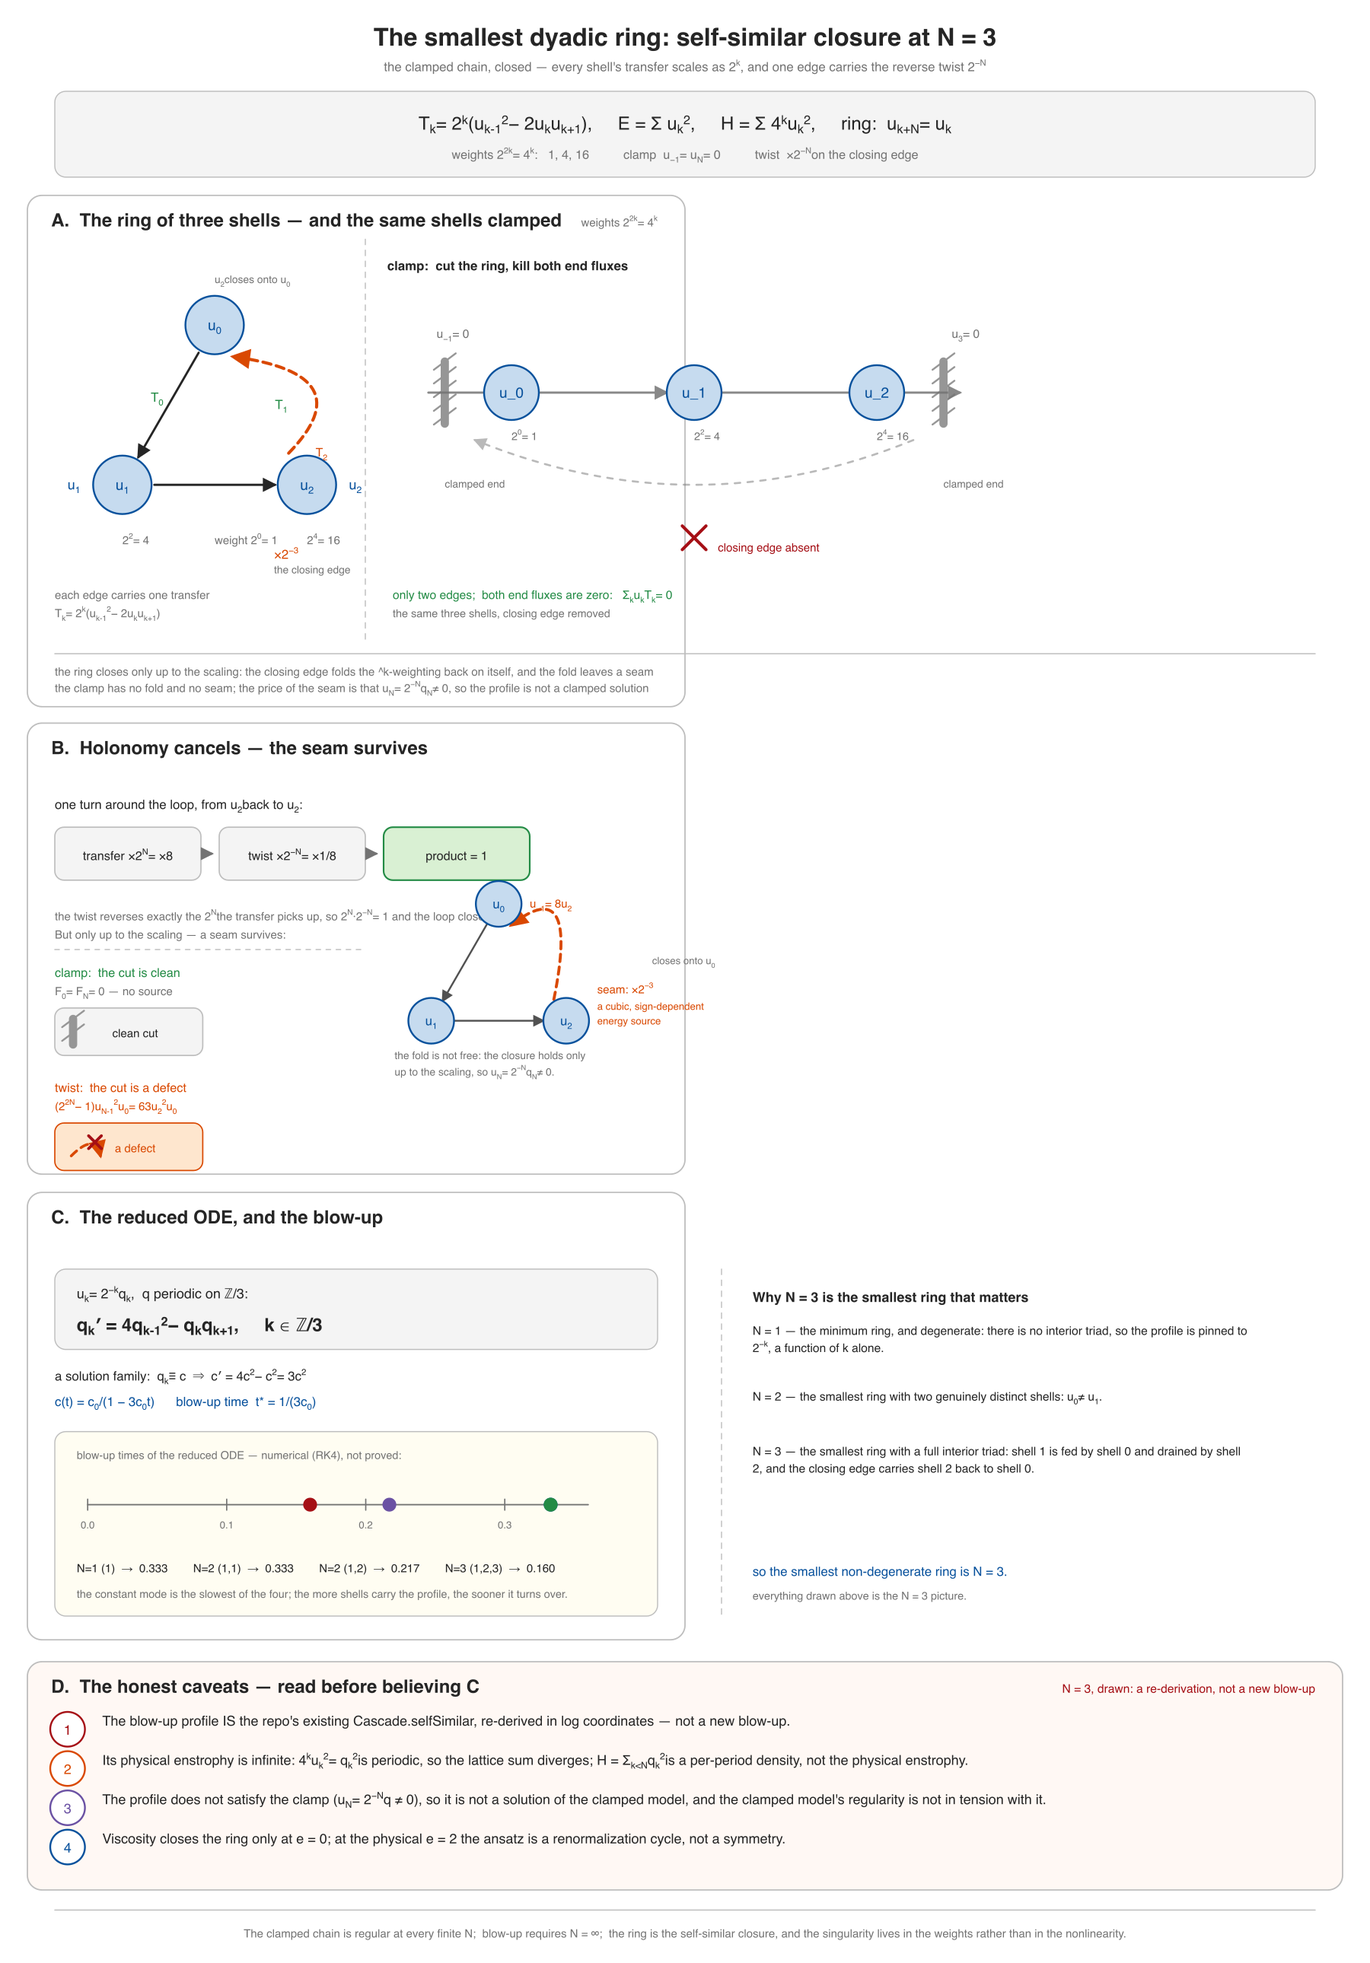
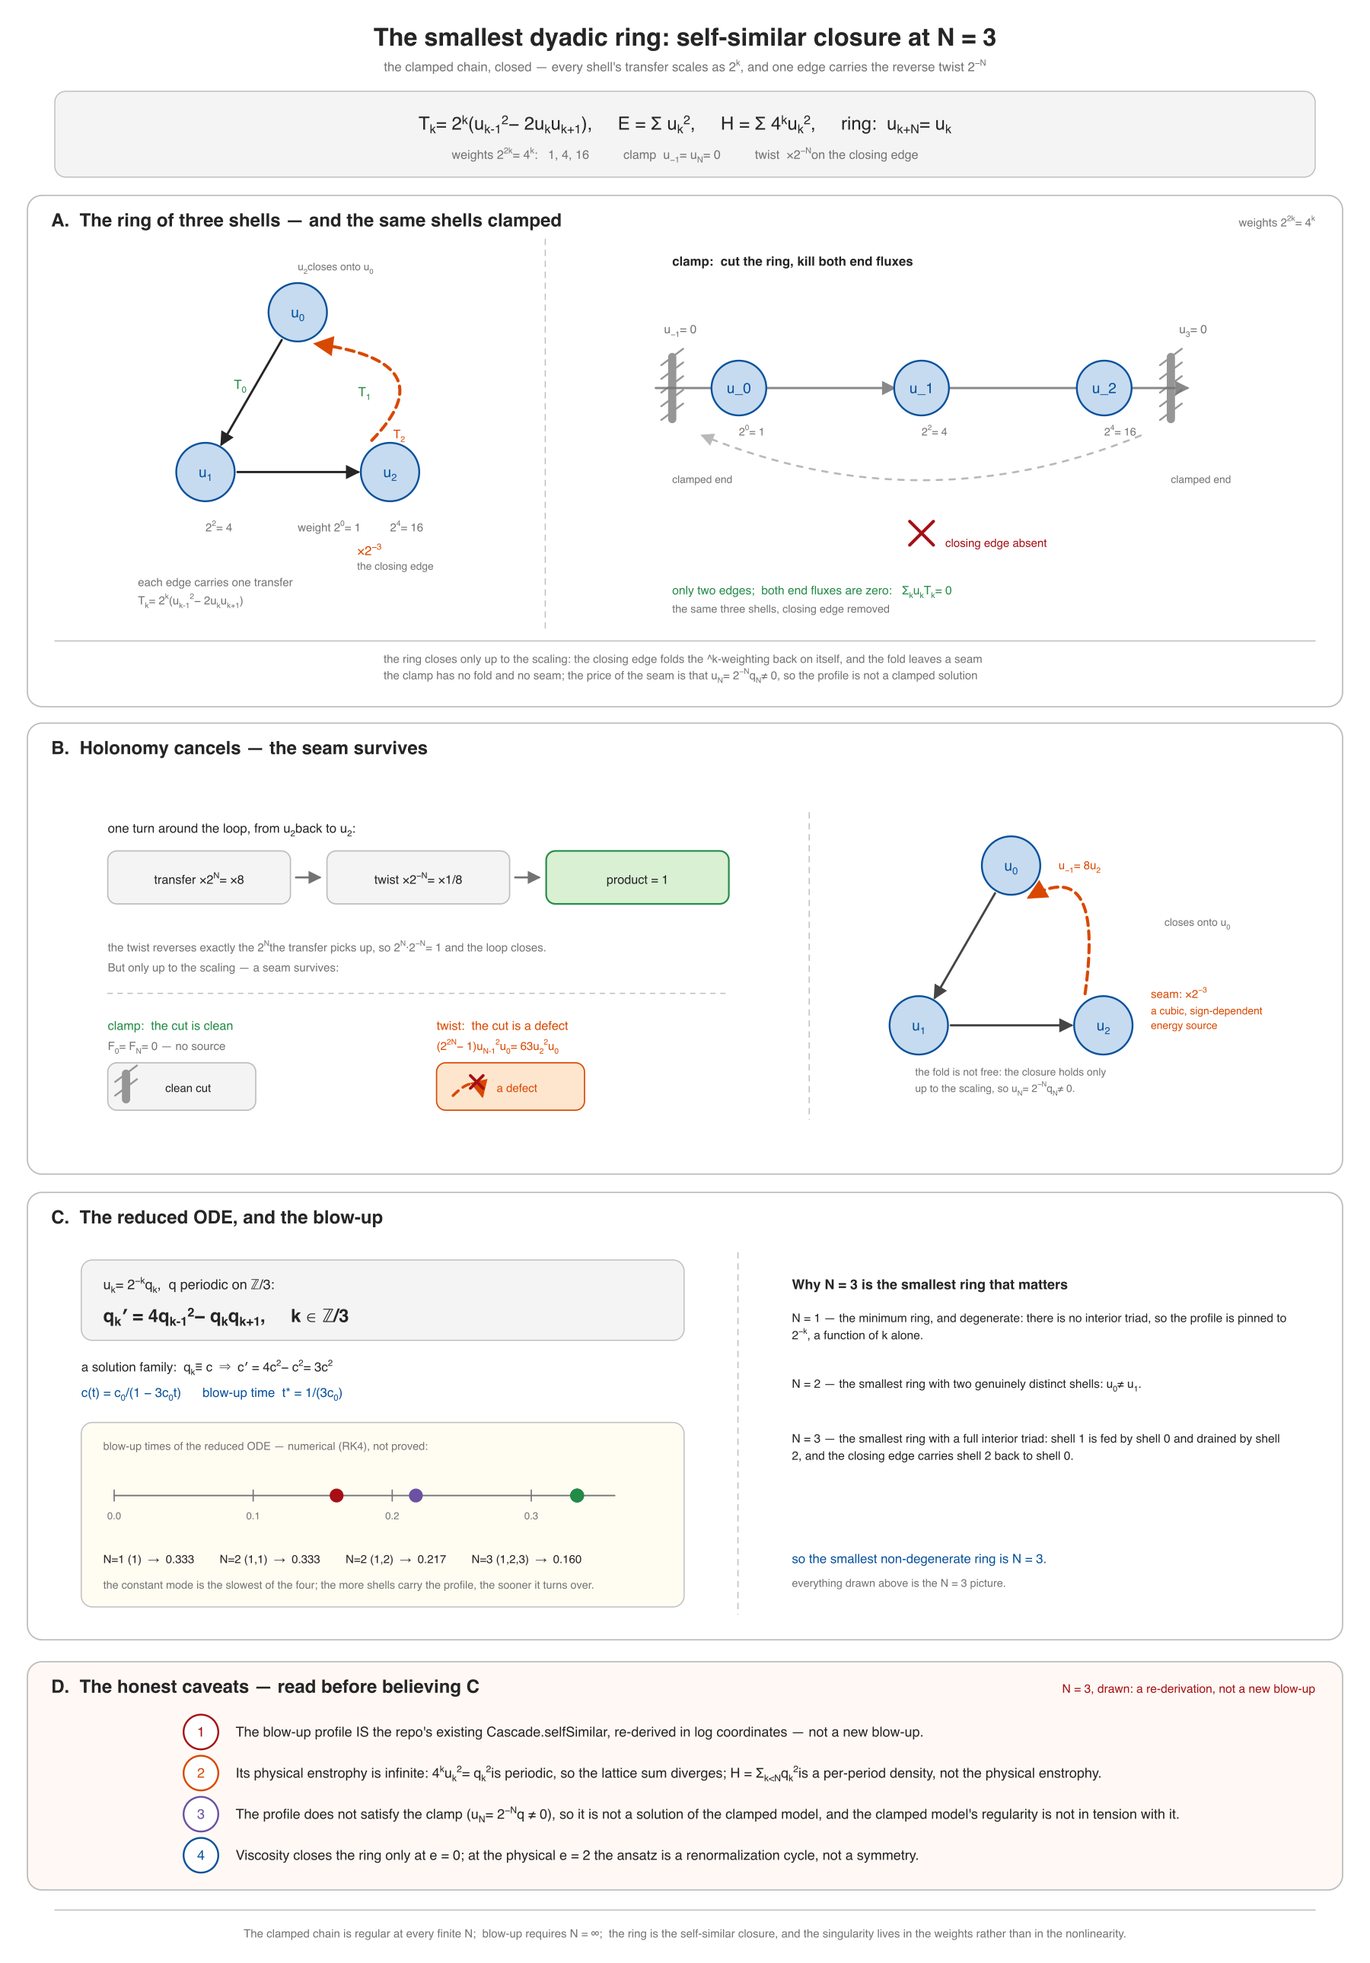
Sync the ring figure's layout fixes from the parent
The parent's ring figure went through five layout passes after this repository was last
synced, so what was carried here was the original: content running outside the panel frames, a
card border cutting through the small ring's labels, a duplicated u_1/u_2 label pair, panel B
missing the column divider that panels A and C had, its ring drawn at radius 25/height 128
against A's 32/175, and nothing centred in its card.

This brings the three ring files across from parent commit 25b67ce, which squashes those five
passes into one:

* the panel frames widened 720 -> 1440, so no content sits outside a card;
* two text-text overlaps removed, and the duplicate external u_1/u_2 labels deleted (the node
  circles already carry them);
* the "a defect" box opened from a 4px gap to its card bottom up to 82px;
* panel B given the column divider A and C already had, and its ring redrawn at A's geometry;
* the three dividers placed in their own mid-gaps (597 / 886 / 808);
* the caveat bullets centred on their text lines (they had sat ~9px low);
* each figure centred in its region on both axes by SVG group translates.

The figure's content is unchanged: it still carries the four caveats printed inside it -- the
profile is the existing Cascade.selfSimilar re-derived in log coordinates rather than a new
blow-up, its physical enstrophy is infinite, it violates the clamp and so contradicts nothing,
and viscosity closes the ring only at e = 0 -- and the blow-up times are still labelled
[…]

diff --git a/Cascade/plot_dyadic_ring.py b/Cascade/plot_dyadic_ring.py
@@ -290,11 +290,19 @@ o.append(rich(750, 174, "weights 2^{2k} = 4^{k}:   1, 4, 16          "
 
 # =========================== PANEL A: ring vs clamp ========================
 AY, AH = 214, 560
-o.append(panel(PAD, AY, 720, AH,
+o.append(panel(PAD, AY, 1440, AH,
                "A.  The ring of three shells — and the same shells clamped"))
-o.append(rich(720, AY + 34, "weights 2^{2k} = 4^{k}", size=12.5, anchor='end', fill=GREY))
+o.append(rich(1440, AY + 34, "weights 2^{2k} = 4^{k}", size=12.5, anchor='end', fill=GREY))
 
 # --- the ring (left half of panel A) ----------------------------------------
+# Each figure is centred on both axes: in the card, or in its half of a
+# two-column card.  The ring block measures 324 wide and the clamped chain 630,
+# so with the rule centred in the gap it sits at 750 + (324-630)/2 = 597 and the
+# two figures centre on 313 and 1044.  Card A's body runs from the foot of the
+# title (253) to the rule at 702, centre ~477.
+RA_DX, RA_DY = 91, -14
+CA_DX, CA_DY = 74, -5
+o.append(f'<g transform="translate({RA_DX},{RA_DY})">')
 RX, RY, RH = 235.0, 356.0, 175.0            # apex x, apex y, height
 RGRP = 32
 P0 = (RX, RY)                                # u_0  (apex)
@@ -309,45 +317,53 @@ o.append(arrow(rb1[0], rb1[1], rb2[0], rb2[1], color='ink', sw=2.4))
 rc1, rc2 = step(P2, P0, 32 + 8)
 o.append(carrow(rc1[0], rc1[1], 400.0, 410.0, rc2[0], rc2[1],
                 color='orange', sw=3.4, dash="9 6"))
-o.append(text(300, 612, "×2^{−3}", size=14, fill=ORANGE))
-o.append(text(300, 628, "the closing edge", size=11.5, fill=GREY))
+o.append(text(300, 622, "×2^{−3}", size=14, fill=ORANGE))
+o.append(text(300, 638, "the closing edge", size=11.5, fill=GREY))
 
 o.append(node(P0[0], P0[1], RGRP, "u_{0}"))
 o.append(node(P1[0], P1[1], RGRP, "u_{1}"))
 o.append(node(P2[0], P2[1], RGRP, "u_{2}"))
 o.append(text(P0[0], P0[1] - RGRP - 14, "u_{2} closes onto u_{0}", size=11.5, fill=GREY))
-o.append(text(P1[0] - RGRP - 14, P1[1] + 5, "u_{1}", size=15, anchor='end', fill=BLUE))
-o.append(text(P2[0] + RGRP + 14, P2[1] + 5, "u_{2}", size=15, anchor='start', fill=BLUE))
 # the edge transfers, and the weight band under the ring
 o.append(rich(172, 440, "T_{0}", size=14, fill=GREEN))
 o.append(rich(308, 448, "T_{1}", size=14, fill=GREEN))
-o.append(rich(352, 500, "T_{2}", size=13, fill=ORANGE))
+o.append(rich(346, 494, "T_{2}", size=13, fill=ORANGE))
 o.append(text(P0[0], 596, "weight 2^{0} = 1", size=12.5, fill=GREY))
 o.append(text(P1[0], 596, "2^{2} = 4", size=12.5, fill=GREY))
 o.append(text(P2[0], 596, "2^{4} = 16", size=12.5, fill=GREY))
 # legend under the ring
 o.append(text(60, 656, "each edge carries one transfer", size=12.5, fill=GREY))
 o.append(text(60, 676, "T_{k} = 2^{k}(u_{k-1}^{2} − 2u_{k}u_{k+1})", size=12.5, fill=GREY))
+o.append('</g>')
 
 # --- the clamped chain (right half of panel A) ------------------------------
-o.append(line(400, 262, 400, 704, stroke=MGREY, sw=1.2, dash="6 6"))
-o.append(text(424, 296, "clamp:  cut the ring, kill both end fluxes", size=14, weight='bold'))
-o.append(line(60, 716, 1440, 716, stroke=MGREY, sw=1.2))
-o.append(text(60, 740, "the ring closes only up to the scaling: the closing edge folds the "
+# column rule, centred in the gap between the ring (right edge ~384) and the
+# clamped chain (left edge ~644)
+o.append(line(597, 262, 597, 692, stroke=MGREY, sw=1.2, dash="6 6"))
+o.append(f'<g transform="translate({CA_DX},{CA_DY})">')
+o.append(text(662, 296, "clamp:  cut the ring, kill both end fluxes", size=14, weight='bold'))
+o.append('</g>')
+o.append(line(60, 702, 1440, 702, stroke=MGREY, sw=1.2))
+# the card-level note under the rule is content too: centred in the card
+AN_DX = 360
+o.append(f'<g transform="translate({AN_DX},0)">')
+o.append(text(60, 726, "the ring closes only up to the scaling: the closing edge folds the "
                        "^k-weighting back on itself, and the fold leaves a seam",
               size=12.5, fill=GREY))
-o.append(text(60, 758, "the clamp has no fold and no seam; the price of the seam is that "
+o.append(text(60, 744, "the clamp has no fold and no seam; the price of the seam is that "
                        "u_{N} = 2^{−N}q_{N} ≠ 0, so the profile is not a clamped solution",
               size=12.5, fill=GREY))
+o.append('</g>')
 
+o.append(f'<g transform="translate({CA_DX},{CA_DY})">')
 CCY = 430
-NX = [560, 760, 960]
+NX = [735, 935, 1135]
 o.append(vclamp(NX[0] - 73, CCY - 34, CCY + 34))
 o.append(vclamp(NX[2] + 73, CCY - 34, CCY + 34))
 o.append(arrow(NX[0] - 91, CCY, NX[1] - 30, CCY, color='grey', sw=2.4, opacity=0.85))
 o.append(arrow(NX[1] + 30, CCY, NX[2] + 91, CCY, color='grey', sw=2.4, opacity=0.85))
-o.append(text(478, 370, "u_{−1} = 0", size=13, fill=GREY))
-o.append(text(1042, 370, "u_{3} = 0", size=13, fill=GREY))
+o.append(text(653, 370, "u_{−1} = 0", size=13, fill=GREY))
+o.append(text(1217, 370, "u_{3} = 0", size=13, fill=GREY))
 # the absent closing edge, struck out
 o.append(carrow(NX[2] + 40, CCY + 52, (NX[2] + NX[0]) / 2, CCY + 150,
                 NX[0] - 40, CCY + 52, color='grey', sw=2.2, dash="6 8", opacity=0.5))
@@ -361,77 +377,99 @@ for i, mx in enumerate(NX):
                   size=12, fill=GREY))
 o.append(text(NX[0] - 73, CCY + 104, "clamped end", size=11.5, fill=GREY))
 o.append(text(NX[2] + 73, CCY + 104, "clamped end", size=11.5, fill=GREY))
-o.append(text(430, 656, "only two edges;  both end fluxes are zero:   "
+o.append(text(662, 656, "only two edges;  both end fluxes are zero:   "
                         "Σ_{k} u_{k}T_{k} = 0", size=13, fill=GREEN))
-o.append(text(430, 676, "the same three shells, closing edge removed", size=12, fill=GREY))
+o.append(text(662, 676, "the same three shells, closing edge removed", size=12, fill=GREY))
+o.append('</g>')
 
 # ==================== PANEL B: holonomy and the seam ========================
 BY, BH = 792, 494
-o.append(panel(PAD, BY, 720, BH,
+o.append(panel(PAD, BY, 1440, BH,
                "B.  Holonomy cancels — the seam survives"))
 
 # --- left column: the turn, then the clamp ----------------------------------
-o.append(text(60, 886, "one turn around the loop, from u_{2} back to u_{2}:", size=14))
-BX = [60, 240, 420]
-BW = 160
-o.append(rect(BX[0], 906, BW, 58, fill=LGREY, stroke=MGREY, sw=1.4, rx=10))
-o.append(rich(BX[0] + BW / 2, 942, "transfer ×2^{N} = ×8", size=13.5))
-o.append(arrow(BX[0] + BW + 6, 935, BX[1] - 8, 935, color='grey', sw=2.2))
-o.append(rect(BX[1], 906, BW, 58, fill=LGREY, stroke=MGREY, sw=1.4, rx=10))
-o.append(rich(BX[1] + BW / 2, 942, "twist ×2^{−N} = ×1/8", size=13.5))
-o.append(arrow(BX[1] + BW + 6, 935, BX[2] - 8, 935, color='grey', sw=2.2))
-o.append(rect(BX[2], 906, BW, 58, fill=LGREEN, stroke=GREEN, sw=1.8, rx=10))
-o.append(rich(BX[2] + BW / 2, 942, "product = 1", size=13.5))
-o.append(text(60, 1008, "the twist reverses exactly the 2^{N} the transfer picks up, so "
+# Card B's body runs from the foot of the title (831) to the card bottom (1286),
+# centre ~1058.  The flow column measures 680 wide and the ring 409, so the rule
+# sits at 750 + (680-409)/2 = 886 and the two columns centre on 458 and 1178.
+BL_DX, BL_DY = 58, 12
+BR_DX, BR_DY = 17, -32
+o.append(f'<g transform="translate({BL_DX},{BL_DY})">')
+o.append(text(60, 900, "one turn around the loop, from u_{2} back to u_{2}:", size=14))
+BX = [60, 300, 540]
+BW = 200
+o.append(rect(BX[0], 920, BW, 58, fill=LGREY, stroke=MGREY, sw=1.4, rx=10))
+o.append(rich(BX[0] + BW / 2, 956, "transfer ×2^{N} = ×8", size=13.5))
+o.append(arrow(BX[0] + BW + 6, 949, BX[1] - 8, 949, color='grey', sw=2.2))
+o.append(rect(BX[1], 920, BW, 58, fill=LGREY, stroke=MGREY, sw=1.4, rx=10))
+o.append(rich(BX[1] + BW / 2, 956, "twist ×2^{−N} = ×1/8", size=13.5))
+o.append(arrow(BX[1] + BW + 6, 949, BX[2] - 8, 949, color='grey', sw=2.2))
+o.append(rect(BX[2], 920, BW, 58, fill=LGREEN, stroke=GREEN, sw=1.8, rx=10))
+o.append(rich(BX[2] + BW / 2, 956, "product = 1", size=13.5))
+o.append(text(60, 1030, "the twist reverses exactly the 2^{N} the transfer picks up, so "
                         "2^{N}·2^{−N} = 1 and the loop closes.", size=12.5, fill=GREY))
-o.append(text(60, 1028, "But only up to the scaling — a seam survives:",
+o.append(text(60, 1052, "But only up to the scaling — a seam survives:",
               size=12.5, fill=GREY))
-o.append(line(60, 1040, 400, 1040, stroke=MGREY, sw=1.2, dash="5 6"))
-o.append(text(60, 1070, "clamp:  the cut is clean", size=13.5, fill=GREEN))
-o.append(text(60, 1090, "F_{0} = F_{N} = 0 — no source", size=12.5, fill=GREY))
-o.append(rect(60, 1104, 162, 52, fill=LGREY, stroke=MGREY, sw=1.4, rx=10))
-o.append(vclamp(80, 1116, 1144))
-o.append(rich(148, 1136, "clean cut", size=12.5))
-o.append(text(60, 1196, "twist:  the cut is a defect", size=13.5, fill=ORANGE))
-o.append(text(60, 1216, "(2^{2N} − 1)u_{N-1}^{2}u_{0} = 63u_{2}^{2}u_{0}",
+o.append(line(60, 1076, 740, 1076, stroke=MGREY, sw=1.2, dash="5 6"))
+# the two cuts, side by side: the clamp is clean, the twist is a defect
+o.append(text(60, 1116, "clamp:  the cut is clean", size=13.5, fill=GREEN))
+o.append(text(60, 1138, "F_{0} = F_{N} = 0 — no source", size=12.5, fill=GREY))
+o.append(rect(60, 1152, 162, 52, fill=LGREY, stroke=MGREY, sw=1.4, rx=10))
+o.append(vclamp(80, 1164, 1192))
+o.append(rich(148, 1184, "clean cut", size=12.5))
+o.append(text(420, 1116, "twist:  the cut is a defect", size=13.5, fill=ORANGE))
+o.append(text(420, 1138, "(2^{2N} − 1)u_{N-1}^{2}u_{0} = 63u_{2}^{2}u_{0}",
               size=12.5, fill=ORANGE))
-o.append(rect(60, 1230, 162, 52, fill=LORANGE, stroke=ORANGE, sw=1.4, rx=10))
-o.append(carrow(78, 1266, 104, 1240, 110, 1266, color='orange', sw=3, dash="8 6"))
-o.append(line(97, 1244, 111, 1258, stroke=RED, sw=3.2))
-o.append(line(111, 1244, 97, 1258, stroke=RED, sw=3.2))
-o.append(rich(148, 1262, "a defect", size=12.5, fill=ORANGE))
+o.append(rect(420, 1152, 162, 52, fill=LORANGE, stroke=ORANGE, sw=1.4, rx=10))
+o.append(carrow(438, 1188, 464, 1162, 470, 1188, color='orange', sw=3, dash="8 6"))
+o.append(line(457, 1166, 471, 1180, stroke=RED, sw=3.2))
+o.append(line(471, 1166, 457, 1180, stroke=RED, sw=3.2))
+o.append(rich(508, 1184, "a defect", size=12.5, fill=ORANGE))
+o.append('</g>')
+
+# column rule, centred in the gap between the left column (right edge 740) and
+# the ring figure (left edge ~957)
+o.append(line(886, 890, 886, 1226, stroke=MGREY, sw=1.2, dash="6 6"))
 
 # --- right column: the ring, closing edge carrying the defect ---------------
-SRX, SRY, SRH = 546.0, 990.0, 128.0
+# same ring as panel A (radius 32, height 175), centred in the right column
+o.append(f'<g transform="translate({BR_DX},{BR_DY})">')
+SRX, SRY, SRH, SRR = 1090.0, 980.0, 175.0, 32
 S0 = (SRX, SRY)
 S1 = (SRX - SRH / math.sqrt(3.0), SRY + SRH)
 S2 = (SRX + SRH / math.sqrt(3.0), SRY + SRH)
 for U, V in ((S0, S1), (S1, S2)):
-    rp, rq = step(U, V, 25)
-    o.append(arrow(rp[0], rp[1], rq[0], rq[1], color='ink', sw=2, opacity=0.8))
-rp, rq = step(S2, S0, 27)
+    rp, rq = step(U, V, SRR + 3)
+    o.append(arrow(rp[0], rp[1], rq[0], rq[1], color='ink', sw=2.4, opacity=0.85))
+rp, rq = step(S2, S0, SRR + 8)
 o.append(carrow(rp[0], rp[1], (S2[0] + S0[0]) / 2 + 52, (S2[1] + S0[1]) / 2 - 100,
-                rq[0], rq[1], color='orange', sw=3.2, dash="8 6"))
+                rq[0], rq[1], color='orange', sw=3.4, dash="9 6"))
 for U, lab in ((S0, "u_{0}"), (S1, "u_{1}"), (S2, "u_{2}")):
-    o.append(node(U[0], U[1], 25, lab, fs=14))
-o.append(text(714, 1056, "closes onto u_{0}", size=11, fill=GREY))
-o.append(text(S0[0] + 34, S0[1] + 4, "u_{−1} = 8u_{2}", size=12.5, anchor='start',
+    o.append(node(U[0], U[1], SRR, lab, fs=16))
+o.append(text(SRX + 168, SRY + 66, "closes onto u_{0}", size=11.5, fill=GREY))
+o.append(text(S0[0] + 52, S0[1] + 4, "u_{−1} = 8u_{2}", size=12.5, anchor='start',
               fill=ORANGE))
-o.append(rich(S2[0] + 34, S2[1] - 30, "seam: ×2^{−3}", size=12.5, anchor='start',
+o.append(rich(S2[0] + 52, S2[1] - 30, "seam: ×2^{−3}", size=12.5, anchor='start',
               fill=ORANGE))
-o.append(rich(S2[0] + 34, S2[1] - 12, "a cubic, sign-dependent", size=11, anchor='start',
+o.append(rich(S2[0] + 52, S2[1] - 12, "a cubic, sign-dependent", size=11.5, anchor='start',
               fill=ORANGE))
-o.append(rich(S2[0] + 34, S2[1] + 4, "energy source", size=11, anchor='start',
+o.append(rich(S2[0] + 52, S2[1] + 4, "energy source", size=11.5, anchor='start',
               fill=ORANGE))
-o.append(text(432, 1160, "the fold is not free: the closure holds only", size=11.5,
+o.append(text(SRX - 105, 1210, "the fold is not free: the closure holds only", size=11.5,
               fill=GREY))
-o.append(text(432, 1178, "up to the scaling, so u_{N} = 2^{−N}q_{N} ≠ 0.", size=11.5,
+o.append(text(SRX - 105, 1228, "up to the scaling, so u_{N} = 2^{−N}q_{N} ≠ 0.", size=11.5,
               fill=GREY))
+o.append('</g>')
 
 # ========================= PANEL C: reduced ODE ============================
 CY2, CH2 = 1306, 490
-o.append(panel(PAD, CY2, 720, CH2, "C.  The reduced ODE, and the blow-up"))
+o.append(panel(PAD, CY2, 1440, CH2, "C.  The reduced ODE, and the blow-up"))
 
+# Card C's body runs from the foot of the title (1345) to the card bottom (1796),
+# centre ~1570.  The statistics column measures 660 wide and the prose 544, so
+# the rule sits at 750 + (660-544)/2 = 808 and the columns centre on 419 and 1139.
+CL_DX, CL_DY = 29, -10
+CR_DX, CR_DY = 43, -14
+o.append(f'<g transform="translate({CL_DX},{CL_DY})">')
 o.append(rect(60, 1390, 660, 88, fill=LGREY, stroke=MGREY, sw=1.2, rx=12))
 o.append(text(84, 1422, "u_{k} = 2^{−k}q_{k},  q periodic on ℤ/3:", size=15))
 o.append(text(84, 1458, "q_{k}′ = 4q_{k-1}^{2} − q_{k}q_{k+1},     k ∈ ℤ/3",
@@ -463,9 +501,13 @@ o.append(text(84, 1722, "N=1 (1)  →  0.333        N=2 (1,1)  →  0.333       
               size=12.5, fill=INK))
 o.append(text(84, 1750, "the constant mode is the slowest of the four; the more shells carry "
                         "the profile, the sooner it turns over.", size=12, fill=GREY))
+o.append('</g>')
 
 # minimality of N = 3
-o.append(line(790, 1390, 790, 1770, stroke=MGREY, sw=1.2, dash="6 6"))
+# column rule, centred in the gap between the statistics block (right edge 720)
+# and the prose column (left edge 824)
+o.append(line(808, 1372, 808, 1768, stroke=MGREY, sw=1.2, dash="6 6"))
+o.append(f'<g transform="translate({CR_DX},{CR_DY})">')
 o.append(text(824, 1426, "Why N = 3 is the smallest ring that matters", size=15,
               weight='bold'))
 o.append(para(824, 1462, "N = 1 — the minimum ring, and degenerate: there is no "
@@ -479,6 +521,7 @@ o.append(para(824, 1594, "N = 3 — the smallest ring with a full interior triad
 o.append(text(824, 1726, "so the smallest non-degenerate ring is N = 3.", size=14,
               fill=BLUE))
 o.append(text(824, 1752, "everything drawn above is the N = 3 picture.", size=12, fill=GREY))
+o.append('</g>')
 
 # ========================= PANEL D: the caveats ============================
 DY, DH = 1820, 250
@@ -499,12 +542,23 @@ CAV = [
     ("4", "Viscosity closes the ring only at e = 0; at the physical e = 2 the ansatz is a "
           "renormalization cycle, not a symmetry.", BLUE),
 ]
-ry = DY + 62
+# Card D's body runs from the foot of the title (1859) to the card bottom (2070),
+# centre ~1964; the caveat list is shifted onto that axis.
+# Card D's body runs from the foot of the title (1859) to the card bottom (2070),
+# centre ~1964.  The caveat list measures 1099 wide, so it is centred in the
+# 1440-wide card: left edge 30 + (1440-1099)/2 = 200.
+DL_DX, DL_DY = 146, 4
+o.append(f'<g transform="translate({DL_DX},{DL_DY})">')
+ry = DY + 70
 for num, body, col in CAV:
-    o.append(circle(74, ry + 12, 19, fill="#ffffff", stroke=col, sw=2))
-    o.append(rich(74, ry + 18, num, size=15, fill=col))
+    # the bullet is centred on the first line of its caveat: the line's optical
+    # centre is baseline - 0.35*size, so the circle centre sits at ry + 3 and the
+    # number shares the paragraph's baseline.
+    o.append(circle(74, ry + 3, 19, fill="#ffffff", stroke=col, sw=2))
+    o.append(rich(74, ry + 8, num, size=15, fill=col))
     o.append(para(112, ry + 8, body, 15, 1320, fill=INK, lh=21))
-    ry += nlines(body, 15, 1320) * 21 + 22
+    ry += nlines(body, 15, 1320) * 21 + 24
+o.append('</g>')
 
 # ---- footer ----------------------------------------------------------------
 o.append(line(60, 2092, 1440, 2092, stroke=MGREY, sw=1.2))
